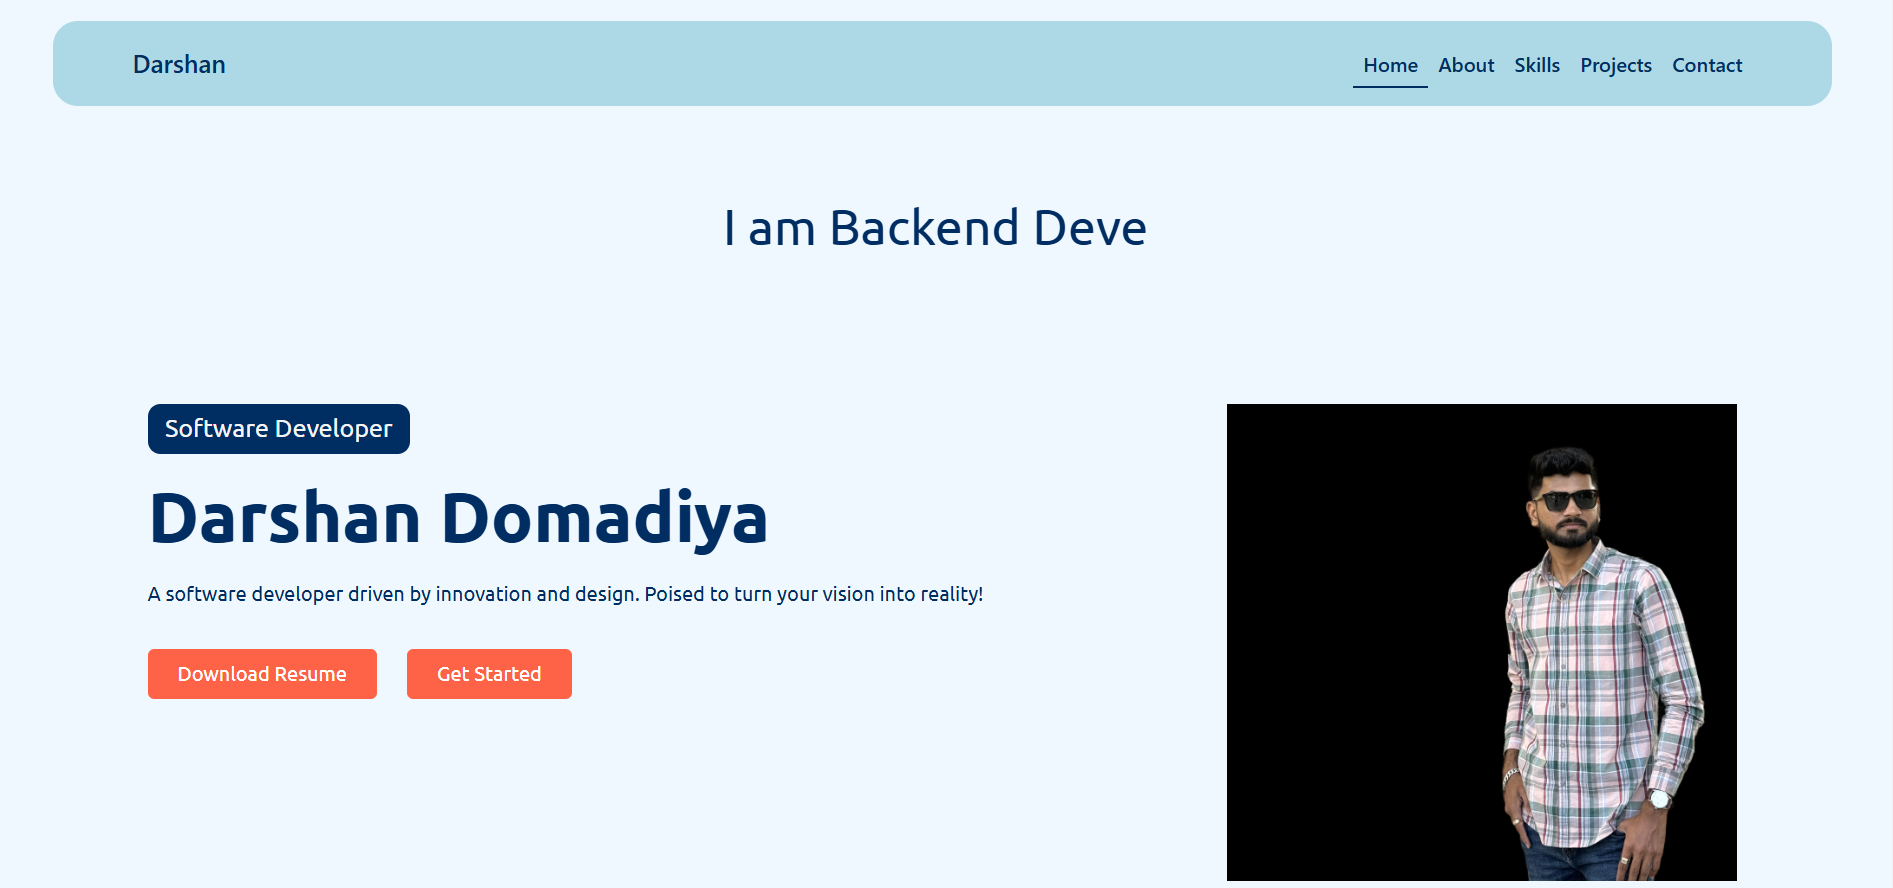
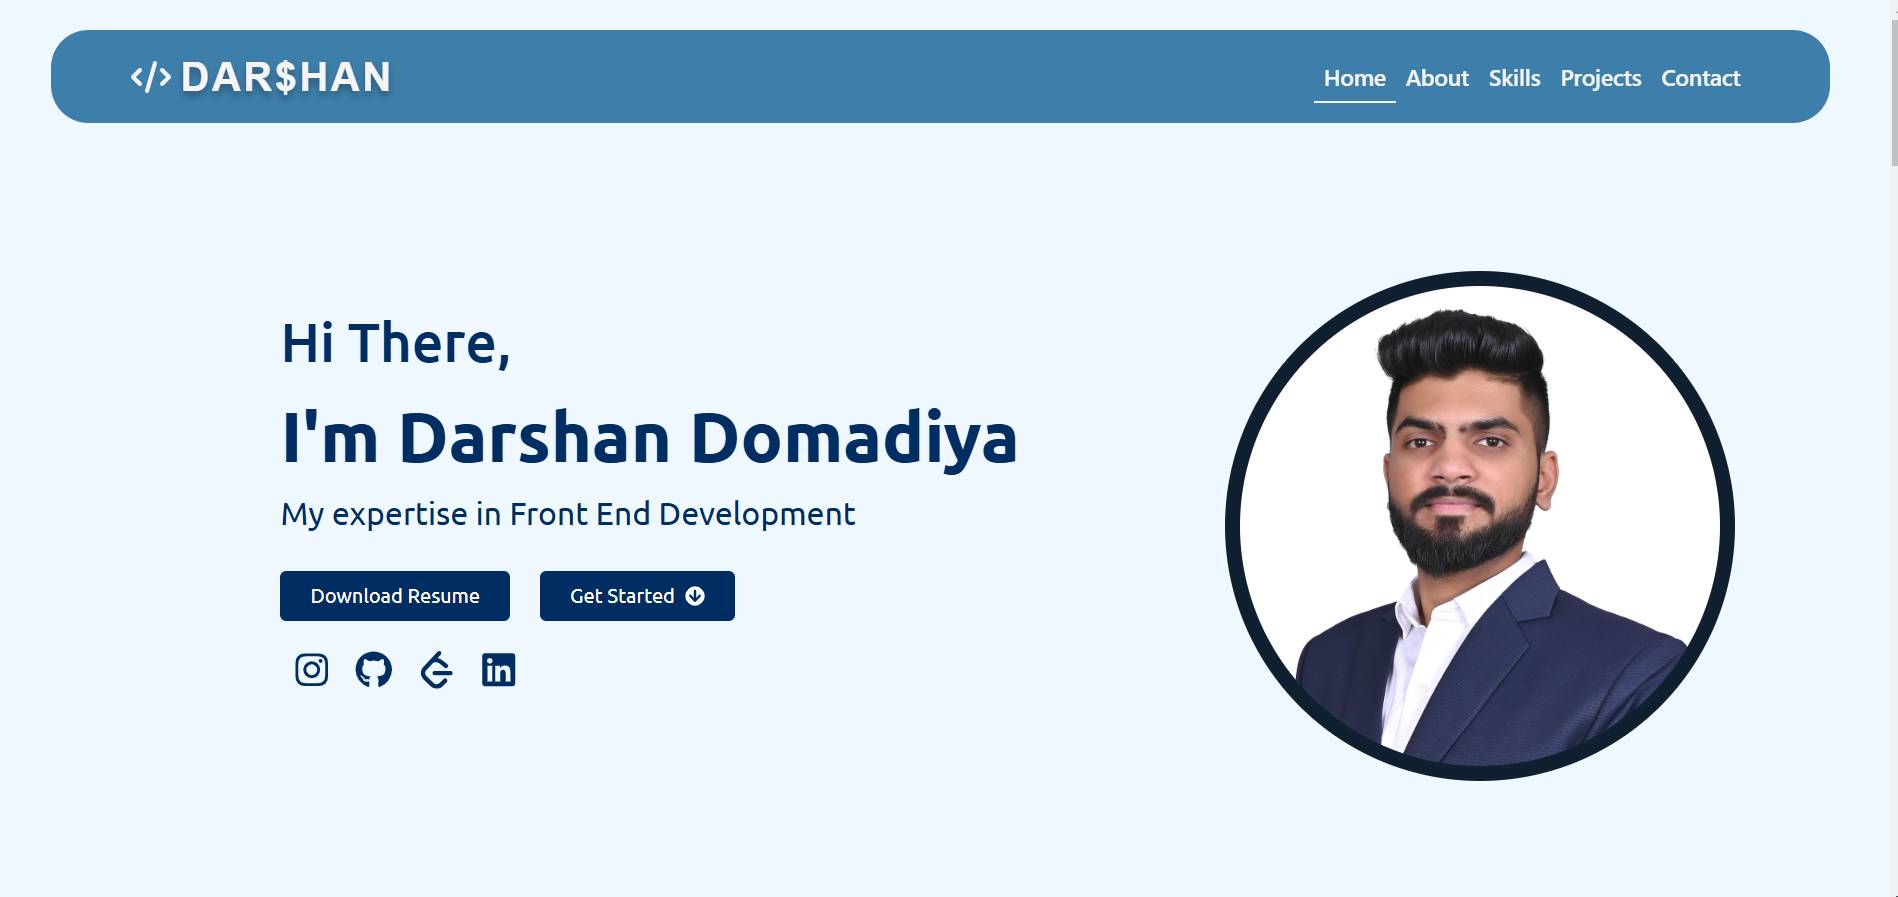
Made changes in design of landing page photo

diff --git a/frontend/src/components/projects/Projects.jsx b/frontend/src/components/projects/Projects.jsx
@@ -7,52 +7,49 @@ const Projects = () => {
   const projectObject = [
     {
       index: 0,
+      cardImage: "./homeImage-1.png",
+      cardTitle: " e-Cart(E-Commerce website)",
+      cardText: `A fully API integrated and responsive e-commerce website which includes various functionalities such as user login and authentication, various pages such as product detail page, product listing page, checkout page, cart page using React Js.`,
+      projectLink:
+        "https://github.com/Darshan-Domadiya/e-Cart-online-shopping-website-",
+      demoLink:
+        "https://drive.google.com/file/d/1Pw_GuCEmVg6paArUuOuXdVAGMM4eFqMd/view?usp=sharing",
+      TechStack: "HTML, SCSS, React Js, Postman, REST Api, React Bootstrap,",
+    },
+
+    {
+      index: 1,
+      cardImage: "./realEstate.png",
+      cardTitle: "Real Estate Website",
+      cardText: `This project highlights expertise in building dynamic full-stack applications with React.js, Node.js, Express.js, and MongoDB. It combines advanced functionality, scalability, and security to deliver a modern solution for real estate management.`,
+      projectLink: "https://github.com/Darshan-Domadiya/Real-Estate_MERN",
+      demoLink:
+        "https://drive.google.com/file/d/1z3MxexoshJ5V2Meu7_1zhjSrWsH15u5x/view?usp=sharing",
+      TechStack:
+        "React Js, Express Js, Node Js, MongoDB, Firebase, React Bootstrap, Redux Toolkit, SCSS",
+    },
+    {
+      index: 2,
+      cardImage: "./portfolio.png",
+      cardTitle: "Portfolio Website",
+      cardText: `Built with ReactJs portfolio showcases my skills and experience as a software developer and proficiency in, responsive design, and animation effects. This project reflects a commitment to creating user-friendly and visually appealing applications. `,
+      projectLink: "https://github.com/Darshan-Domadiya/portfolio",
+      demoLink: "",
+      TechStack: "React Js, MongoDB, React Bootstrap, EmailJs",
+    },
+    {
+      index: 3,
       cardImage: "./mernAuth.png",
       cardTitle: "MERN Auth",
       cardText: `This is a MERN MongoDB, Express, React, Node.js stack
                 application with authentication. It allows users to sign up, log
                 in, and log out, and provides access to protected routes only
                 for authenticated users`,
-      cardLink: "https://github.com/Darshan-Domadiya/MERN-Auth",
+      projectLink: "https://github.com/Darshan-Domadiya/MERN-Auth",
+      demoLink:
+        "https://drive.google.com/file/d/1OHMFBLHGNvLYx8F5MF57U5zNW7KM7jsc/view?usp=sharing",
       TechStack:
         "React Js, Express, Node Js, MongoDB, Firebase, React Bootstrap, Redux Toolkit",
-    },
-
-    {
-      index: 1,
-      cardImage: "./homeImage-1.png",
-      cardTitle: " e-Cart(E-Commerce website)",
-      cardText: `This is a MERN MongoDB, Express, React, Node.js stack
-                application with authentication. It allows users to sign up, log
-                in, and log out, and provides access to protected routes only
-                for authenticated users`,
-      cardLink:
-        "https://github.com/Darshan-Domadiya/e-Cart-online-shopping-website-",
-      TechStack: "HTML, SCSS, React Js, Postman, REST Api, React Bootstrap,",
-    },
-    {
-      index: 2,
-      cardImage: "./portfolio.png",
-      cardTitle: "Portfolio Website",
-      cardText: `This is a MERN MongoDB, Express, React, Node.js stack
-                application with authentication. It allows users to sign up, log
-                in, and log out, and provides access to protected routes only
-                for authenticated users`,
-      cardLink: "https://github.com/Darshan-Domadiya/portfolio",
-      TechStack:
-        "React Js, Express, Node Js, MongoDB, Firebase, React Bootstrap",
-    },
-    {
-      index: 3,
-      cardImage: "./realEstateProject.png",
-      cardTitle: "Real Estate Website",
-      cardText: `This is a MERN MongoDB, Express, React, Node.js stack
-                application with authentication. It allows users to sign up, log
-                in, and log out, and provides access to protected routes only
-                for authenticated users`,
-      cardLink: "https://github.com/Darshan-Domadiya/Real-Estate_MERN",
-      TechStack:
-        "React Js, Express Js, Node Js, MongoDB, Firebase, React Bootstrap, Redux Toolkit, SCSS",
     },
   ];
 
@@ -88,7 +85,7 @@ const Projects = () => {
                 <Card.Text>Tech Stack : {project.TechStack}</Card.Text>
                 <div className="d-sm-flex align-items-center justify-content-center gap-4">
                   <a
-                    href={project.cardLink}
+                    href={project.projectLink}
                     target="_blank"
                     rel="noopener noreferrer"
                   >
@@ -97,7 +94,7 @@ const Projects = () => {
                     </Button>
                   </a>
                   <a
-                    href={project.cardLink}
+                    href={project.demoLink}
                     target="_blank"
                     rel="noopener noreferrer"
                   >

diff --git a/frontend/src/components/contact/Contact.jsx b/frontend/src/components/contact/Contact.jsx
@@ -16,7 +16,7 @@ const Contact = () => {
 
     emailjs
       .sendForm("service_pgl4weo", "template_8tnnhb7", form.current, {
-        publicKey: "PlLrQgImmrlf_BKWz",
+        publicKey: "TexLZyf018rTtz86Q",
       })
       .then(
         () => {
@@ -113,7 +113,7 @@ const Contact = () => {
                   style={{ margin: "0 10px", cursor: "pointer" }}
                 />
 
-                <span>Windsor, ON N9B 3P4, Canada</span>
+                <span>Windsor, Ontario, Canada</span>
               </div>
 
               <div className="d-flex align-items-center">
@@ -135,7 +135,7 @@ const Contact = () => {
 
             <div className="mt-4 d-flex align-items-center mx-2 mx-sm-4 mx-xl-5 mt-5 gap-2">
               <a
-                href="https://github.com/Darshan-Domadiya?tab=repositories"
+                href="https://github.com/Darshan-Domadiya"
                 target="_blank"
                 rel="noopener noreferrer"
               >
@@ -163,11 +163,11 @@ const Contact = () => {
                 />
               </a>
               <a
-                href="https://twitter.com/yourusername"
+                href="https://leetcode.com/u/Darshan_Domadiya23/"
                 target="_blank"
                 rel="noopener noreferrer"
               >
-                <FaTwitter
+                <SiLeetcode
                   size={30}
                   style={{
                     margin: "0 10px",
@@ -178,7 +178,7 @@ const Contact = () => {
               </a>
 
               <a
-                href="https://www.instagram.com/_i_m_darshan_22/"
+                href="https://www.instagram.com/_i_m_darshan_23/"
                 target="_blank"
                 rel="noopener noreferrer"
               >
@@ -198,7 +198,7 @@ const Contact = () => {
       <Container fluid className="border-top footer-container">
         <Row>
           <div className="d-flex gap-1 justify-content-center mt-5 flex-wrap ">
-            <span>&copy; 2024 Darshan Domadiya.</span>
+            <span>&copy; 2025 Darshan Domadiya.</span>
             <span className="footer-text">
               ✨ Built with passion by Darshan Domadiya
             </span>

diff --git a/frontend/src/components/home/Home.jsx b/frontend/src/components/home/Home.jsx
@@ -55,14 +55,16 @@ const Home = () => {
               xl={4}
               className="d-flex align-items-center justify-content-center mb-4 mt-4"
             >
-              <div className="round-image-div">
-                <Image
-                  src="./profile.png"
-                  alt="profile_photo"
-                  className="object-fit-cover img-fluid"
-                  height="100%"
-                  width="100%"
-                />
+              <div className="glass-image-container">
+                <div className="glass-image-frame">
+                  <Image
+                    src="./profile_photo.JPG"
+                    alt="profile_photo"
+                    className="profile-image"
+                    height="100%"
+                    width="100%"
+                  />
+                </div>
               </div>
             </Col>
 
@@ -121,7 +123,7 @@ const Home = () => {
                 <div className="mt-4 fw-semibold d-flex align-items-center ">
                   <div>
                     <a
-                      href="https://github.com/Darshan-Domadiya?tab=repositories"
+                      href="https://www.instagram.com/_i_m_darshan_23/"
                       target="_blank"
                       rel="noopener noreferrer"
                     >
@@ -135,7 +137,7 @@ const Home = () => {
                       />
                     </a>
                     <a
-                      href="https://github.com/Darshan-Domadiya?tab=repositories"
+                      href="https://github.com/Darshan-Domadiya"
                       target="_blank"
                       rel="noopener noreferrer"
                     >
@@ -149,7 +151,7 @@ const Home = () => {
                       />
                     </a>
                     <a
-                      href="https://www.linkedin.com/in/domadiya-darshan/"
+                      href="https://leetcode.com/u/Darshan_Domadiya23/"
                       target="_blank"
                       rel="noopener noreferrer"
                     >

diff --git a/frontend/src/components/header/header.scss b/frontend/src/components/header/header.scss
@@ -27,6 +27,20 @@
   transition: all 0.3s;
   border-bottom: 2px solid transparent; /* Default border */
 }
+.navbar-logo {
+  font-family: "Poppins", sans-serif; /* Choose a modern font */
+  font-weight: 700; /* Bold font */
+  font-size: 2rem; /* Adjust size */
+  letter-spacing: 2px; /* Add spacing for elegance */
+  color: #0d6efd; /* Professional blue color */
+  text-shadow: 0px 4px 6px rgba(0, 0, 0, 0.3); /* Add subtle shadow */
+  cursor: pointer; /* Make it interactive */
+}
+
+.navbar-logo:hover {
+  color: #003580; /* Darken on hover */
+  text-shadow: 0px 6px 8px rgba(0, 0, 0, 0.5); /* Enhance shadow */
+}
 
 .custom-navbar .nav-link.active {
   color: whitesmoke;
@@ -41,21 +55,18 @@
 // Navbar logo.
 
 .navbar-logo {
-  font-family: "Great Vibes", cursive; /* Use the cursive, signature font */
-  font-size: 2rem; /* Slightly larger font size */
-  color: whitesmoke; /* Primary color */
-  font-weight: 200;
-  // letter-spacing: 2px; /* Slightly spaced out for elegance */
-  display: inline-block;
-  position: relative;
-  cursor: pointer;
-  text-shadow: 1px 1px 3px rgba(0, 0, 0, 0.2);
-  transition: transform 0.3s ease, color 0.3s ease;
+  font-family: "Poppins", sans-serif; /* Choose a modern font */
+  font-weight: 700; /* Bold font */
+  font-size: 2rem; /* Adjust size */
+  letter-spacing: 2px; /* Add spacing for elegance */
+  color: whitesmoke; /* Professional blue color */
+  text-shadow: 0px 4px 6px rgba(0, 0, 0, 0.3); /* Add subtle shadow */
+  cursor: pointer; /* Make it interactive */
 }
 
 .navbar-logo:hover {
-  transform: scale(1.05); /* Slight zoom on hover for effect */
-  color: whitesmoke; /* Optional color change on hover */
+  color: #003580; /* Darken on hover */
+  transition: 0.5s ease-in;
 }
 
 @media screen and (max-width: 426px) {

diff --git a/frontend/src/components/header/Header.jsx b/frontend/src/components/header/Header.jsx
@@ -3,6 +3,7 @@ import { Col, Container, Image, Row } from "react-bootstrap";
 import Nav from "react-bootstrap/Nav";
 import Navbar from "react-bootstrap/Navbar";
 import "./header.scss";
+import { FaCode } from "react-icons/fa6";
 
 const Header = () => {
   const [activeLink, setActiveLink] = useState("home");
@@ -63,9 +64,12 @@ const Header = () => {
           isVisible ? "visible" : "hidden"
         } mx-4 mx-md-5`}
       >
-        <Container className="text-center">
-          <Navbar.Brand href="/" className="  navbar-logo">
-            DAR$HAN
+        <Container className="text-center ">
+          <Navbar.Brand href="/" className="navbar-logo">
+            <div className="d-flex align-items-center gap-1 gap-sm-2">
+              <FaCode />
+              DAR$HAN
+            </div>
           </Navbar.Brand>
           <Navbar.Toggle aria-controls="basic-navbar-nav" />
           <Navbar.Collapse id="basic-navbar-nav">

diff --git a/frontend/src/components/home/home.scss b/frontend/src/components/home/home.scss
@@ -168,3 +168,38 @@ section {
     height: 50px;
   }
 }
+
+.glass-image-container {
+  display: flex;
+  justify-content: center;
+  align-items: center;
+  position: relative;
+  border-radius: 50%;
+  // box-shadow: 0px 5px 15px rgba(0, 0, 0, 0.2); /* Soft shadow for depth */
+  transition: transform 0.3s ease-in-out, box-shadow 0.3s ease-in-out;
+}
+
+.glass-image-container:hover {
+  transform: scale(1.05); /* Slight hover effect */
+  box-shadow: 0px 8px 20px rgba(0, 0, 0, 0.3);
+}
+
+.glass-image-frame {
+  width: 100%;
+  height: 100%;
+  border-radius: 50%;
+  overflow: hidden;
+}
+
+.profile-image {
+  width: 100%;
+  height: 100%;
+  object-fit: cover;
+  border-radius: 50%;
+  transition: transform 0.3s ease-in-out;
+}
+
+.profile-image:hover {
+  transform: scale(1.05);
+}
+
